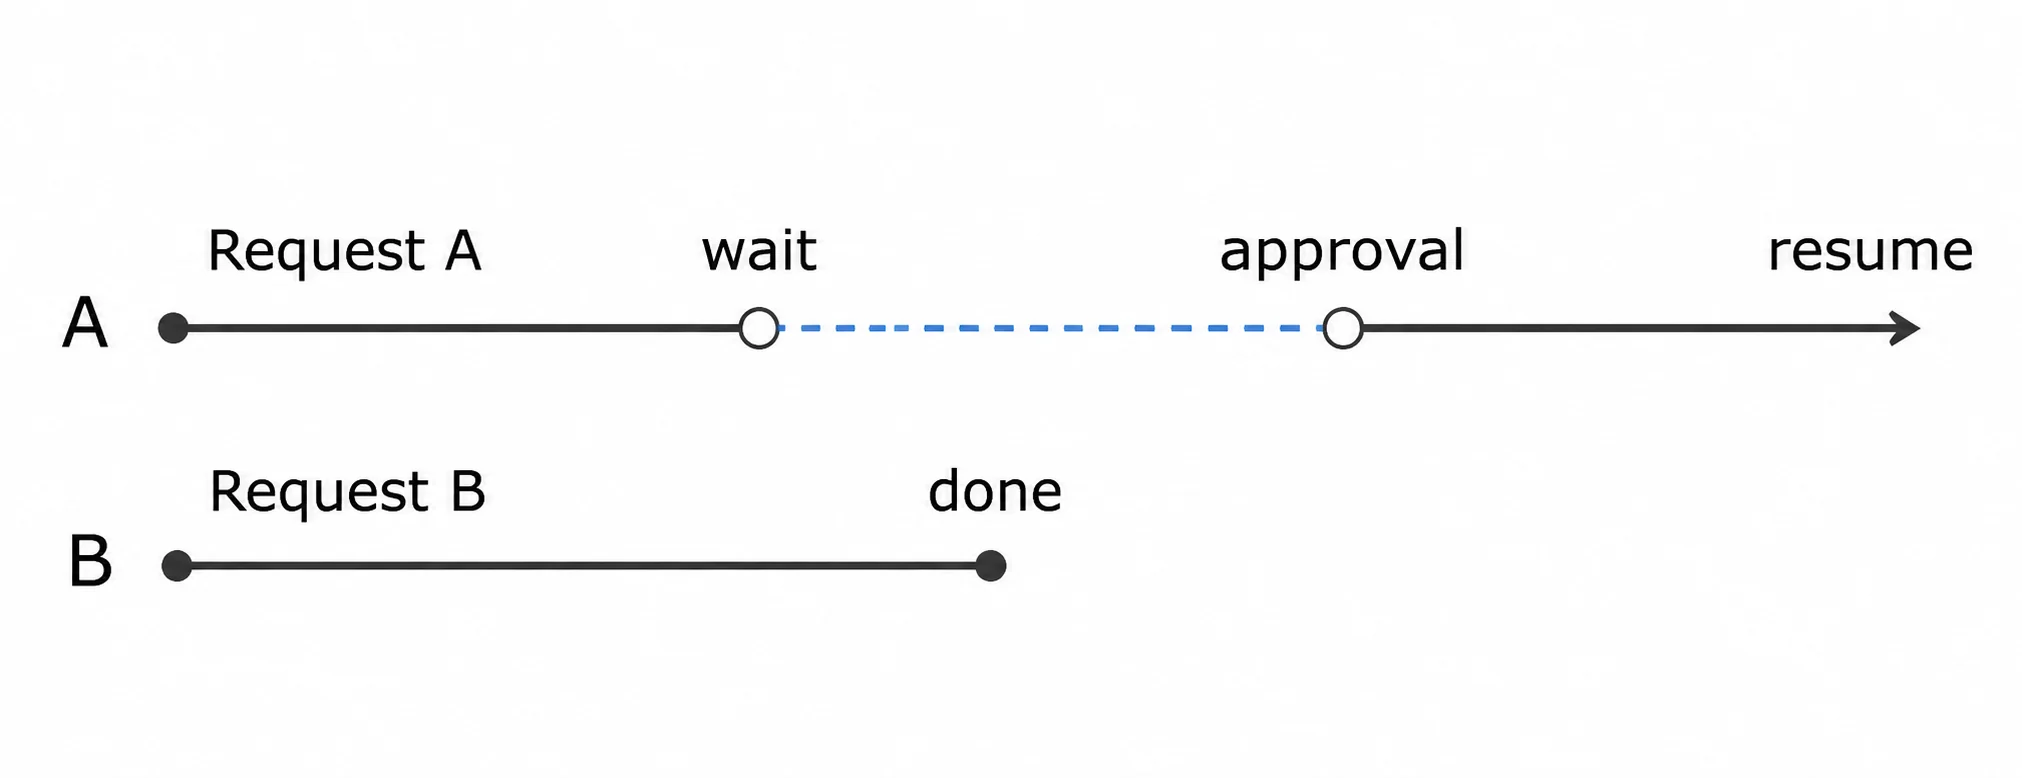
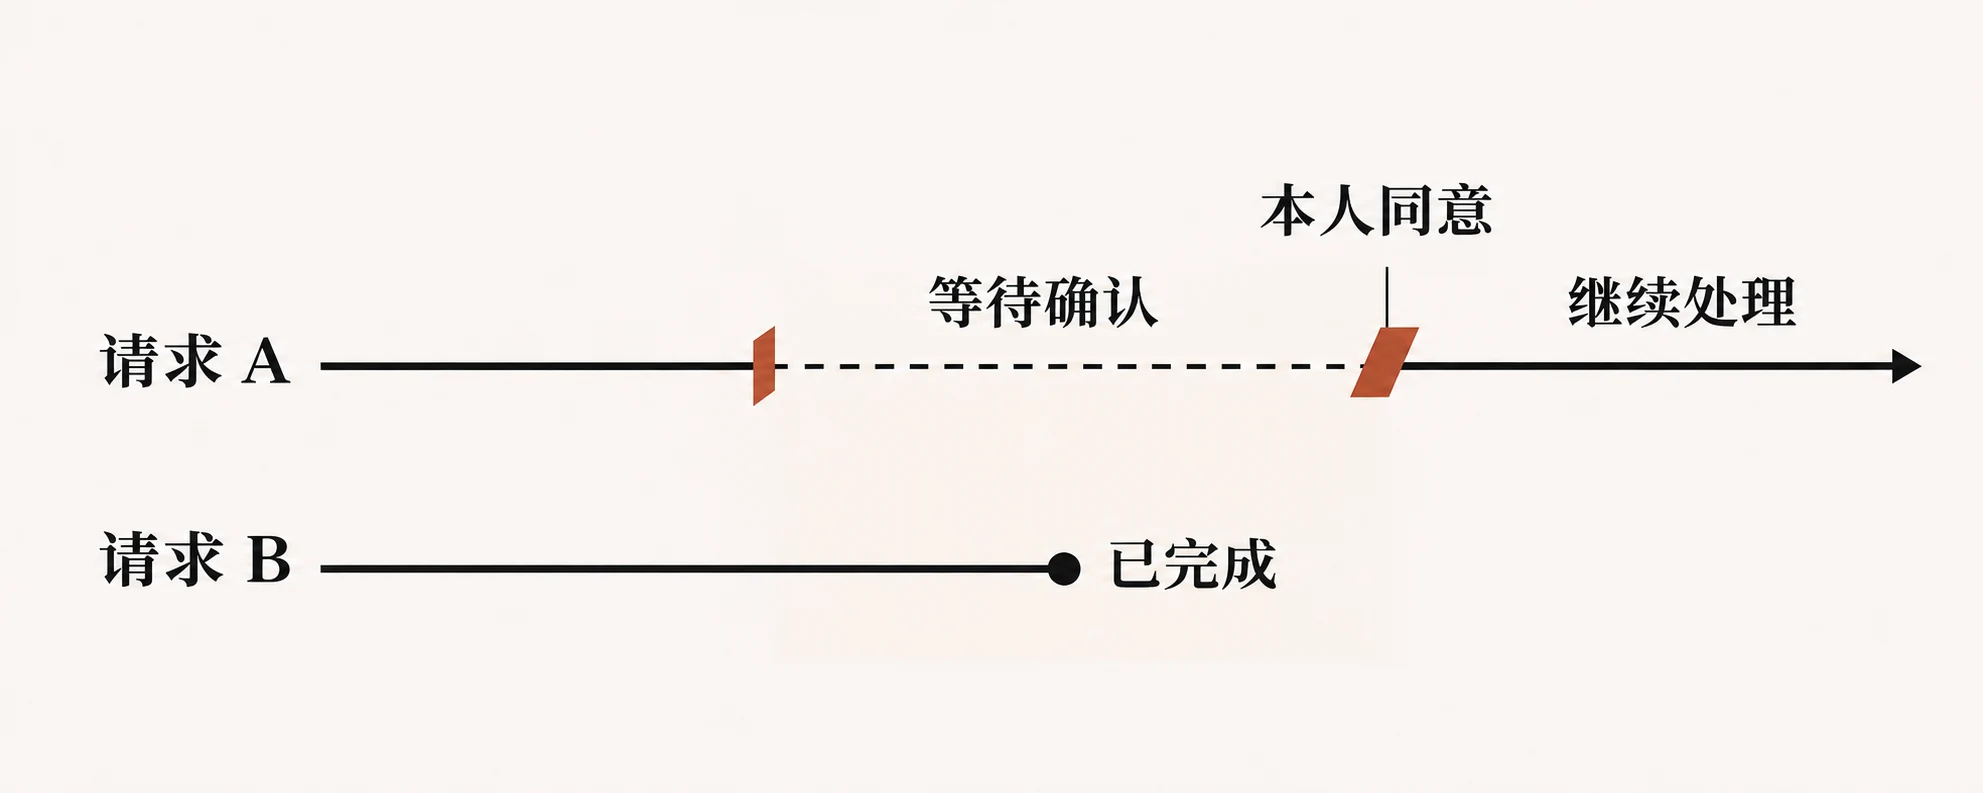
Redraw README figures around the work item, approval interval and draft evidence

diff --git a/README.en.md b/README.en.md
@@ -10,7 +10,9 @@ Work Agent Kernel is a local TypeScript framework that gives ongoing work a dura
 
 ## How does a follow-up find the right session?
 
-![The default app admits a request before routing. The router uses a runtime and context reader. The kernel stores the work item, dispatches it through a harness, and delivers the result through a notification hook and sink.](docs/images/kernel-extension-path.webp)
+![Desktop and Feishu meet at beforeRoute. The router identifies a work item; its worker resumes the Codex session. Results pass beforeNotify on their way to the inbox.](docs/images/kernel-extension-path.en.webp)
+
+The diagram has two kinds of extension points. Feishu supplies a `Source`, the router calls a `PlanningRuntime`, and Codex accepts work through a `Harness`. Business hooks run at `beforeRoute` and `beforeNotify`.
 
 Consider the release checklist. Desktop supplies the goal you typed. The Feishu adapter supplies the incoming message and the project bound to its chat. Once admitted, both requests reach the same **router**. It can look up existing work and propose attaching the follow-up to the checklist. A casual message can simply stay in the inbox.
 
@@ -51,7 +53,7 @@ The default router and worker inherit your local Codex model and reasoning setti
 
 ## When should sending a card pause the work?
 
-![Request A pauses for approval. Request B finishes in the meantime. When the owner approves, A resumes from its checkpoint.](docs/images/hook-wait-resume.webp)
+![Request A pauses for approval. Request B finishes in the meantime. When the owner approves, A resumes from its checkpoint.](docs/images/hook-wait-resume.en.webp)
 
 Ask whether the next step needs an answer. When a message arrives from an unbound chat and admission checks are enabled, the hook returns `wait`. The framework saves a checkpoint and the Feishu adapter sends a card. Delivery leaves that request waiting for your decision. Other requests can finish in the meantime.
 
@@ -73,7 +75,7 @@ Set `ROUTER_HOOKS_FILE` to the absolute path of this trusted module before start
 
 ## How does an external plugin run the whole loop?
 
-![File events feed one work item. The owner selects the loading-only scope during execution. The worker writes a Markdown draft and the result notification reaches the inbox.](docs/images/offline-loop.webp)
+![The owner selects “Loading only” and a file event says to keep the image while loading. Both appear in the Markdown draft. The kernel delivers the notification separately.](docs/images/offline-loop.en.webp)
 
 The `demo:loop` example connects a team's own input, worker, and inbox to the kernel. The CLI loads a local module with `--plugins` and calls its `createPlugins()` factory. The module returns four implementations. [Plugin source](examples/offline-loop/plugin.ts)
 
